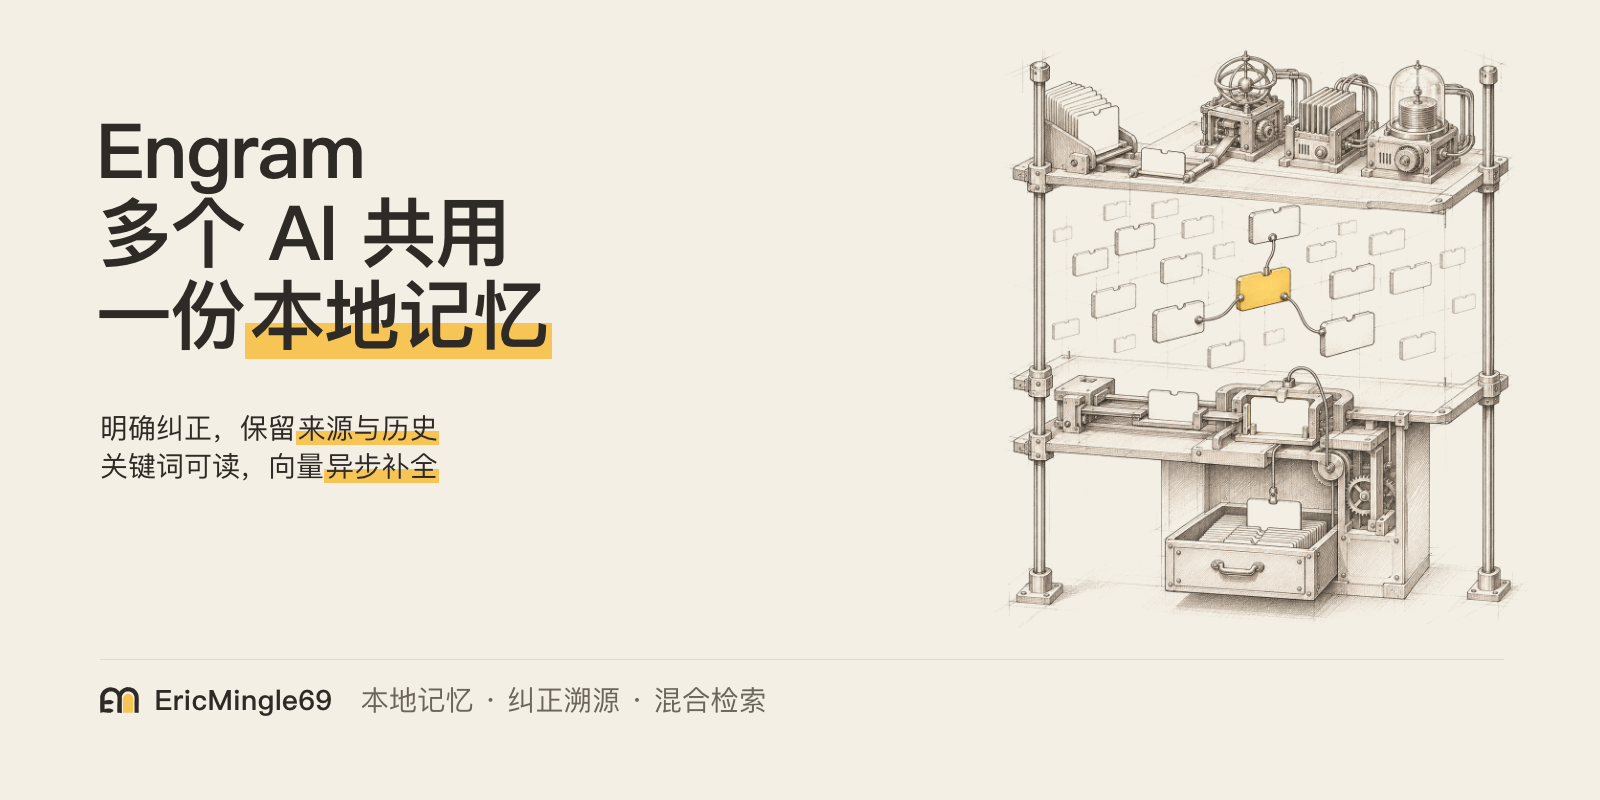
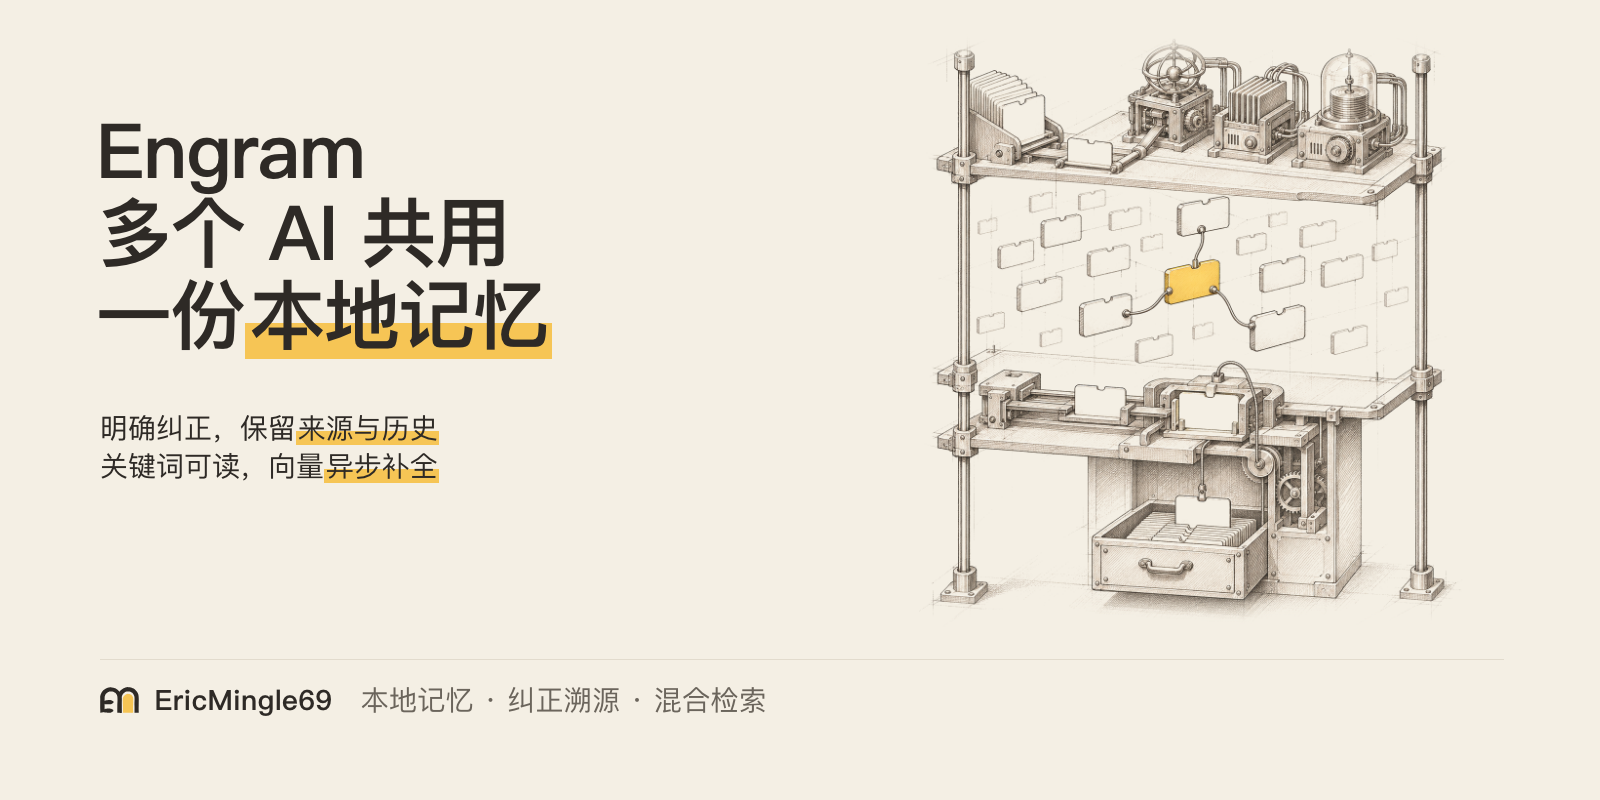
Docs: edge-fitted cover illustration (0.4.5)

Changed region(s): [[0.5625, 0.0625, 0.9688, 0.7812]]

diff --git a/scripts/publication_check.py b/scripts/publication_check.py
@@ -41,7 +41,7 @@ TEXT_SUFFIXES = frozenset({
     ".js", ".mjs", ".cjs", ".ts", ".tsx", ".jsx", ".svg", ".sql",
 })
 # Reviewed generated covers only; any changed image requires visual review.
[2 lines of base64/hex data omitted]
 
 TEXT_NAMES = frozenset({"LICENSE", "NOTICE", "COPYING", "Makefile", ".gitignore", ".gitattributes", ".editorconfig", ".python-version"})
 UUID = re.compile(r"\b[0-9a-f]{8}-[0-9a-f]{4}-[0-9a-f]{4}-[0-9a-f]{4}-[0-9a-f]{12}\b", re.IGNORECASE)

diff --git a/tests/test_mcp_profiles.py b/tests/test_mcp_profiles.py
@@ -171,7 +171,7 @@ def test_official_sdk_stdio_profile(tmp_path):
                     result = await session.initialize()
                     assert result.serverInfo.name == "engram-claude"
                     assert result.serverInfo.title == "Engram Claude"
-                    assert result.serverInfo.version == "0.4.4"
+                    assert result.serverInfo.version == "0.4.5"
                     listed = await session.list_tools()
                     assert {item.name for item in listed.tools} == {
                         item["name"] for item in tool_descriptors()

diff --git a/tests/test_mcp_claude_remote.py b/tests/test_mcp_claude_remote.py
@@ -58,7 +58,7 @@ def test_http_profile_identity_and_shared_data(tmp_path):
             )
             expected_name = "engram-claude" if profile == "claude" else "engram"
             assert initialized["serverInfo"]["name"] == expected_name
-            assert initialized["serverInfo"]["version"] == "0.4.4"
+            assert initialized["serverInfo"]["version"] == "0.4.5"
             if profile == "claude":
                 assert initialized["instructions"] == CLAUDE_PROFILE.instructions
                 saved = call(client, "remember", {"body": "isolated shared profile"})

diff --git a/src/engram/mcp/server.py b/src/engram/mcp/server.py
@@ -22,7 +22,7 @@ from engram.mcp.tools import ToolContext, call_tool, tool_descriptors
 
 PROTOCOL_VERSION = "2025-06-18"
 SERVER_NAME = "engram"
-SERVER_VERSION = "0.4.4"
+SERVER_VERSION = "0.4.5"
 INSTRUCTIONS = DEFAULT_PROFILE.instructions
 
 PARSE_ERROR = -32700

diff --git a/README.en.md b/README.en.md
@@ -6,7 +6,7 @@
 <p align="center"><a href="docs/architecture.md">Architecture</a> · <a href="docs/research-directions.md">Research</a> · <a href="CHANGELOG.md">Changelog</a> · <a href="CONTRIBUTING.md">Contributing</a></p>
 <p align="center">
 <img alt="MIT" src="https://img.shields.io/badge/license-MIT-F6C555?style=flat-square&amp;labelColor=2E2A26">
-<img alt="Version" src="https://img.shields.io/badge/version-0.4.4-6B655C?style=flat-square&amp;labelColor=2E2A26">
+<img alt="Version" src="https://img.shields.io/badge/version-0.4.5-6B655C?style=flat-square&amp;labelColor=2E2A26">
 <img alt="Python" src="https://img.shields.io/badge/Python-3.13%2B-6B655C?style=flat-square&amp;labelColor=2E2A26">
 <img alt="SQLite" src="https://img.shields.io/badge/storage-SQLite-A8A196?style=flat-square&amp;labelColor=2E2A26">
 </p>
@@ -14,7 +14,7 @@
 
 # Engram · Shared local knowledge for agents
 
-Engram 0.4.4 keeps long-term knowledge in a local SQLite database shared by different agents. Writers provide content; classification and vectors are completed later. Explicit corrections preserve provenance while reads distinguish currently applicable information from original history.
+Engram 0.4.5 keeps long-term knowledge in a local SQLite database shared by different agents. Writers provide content; classification and vectors are completed later. Explicit corrections preserve provenance while reads distinguish currently applicable information from original history.
 
 Earlier public code declared 0.1.0 and had no formal release tags. Version 0.4.0 first packaged the current core as public source; 0.4.1 updated CI, documentation, and its publication checks, and 0.4.2 updates the signature and covers. Intermediate development is described as milestones, without inventing 0.2/0.3 releases. See the [changelog](CHANGELOG.md), [architecture](docs/architecture.md), [evolution](docs/evolution.md), and [research directions](docs/research-directions.md).
 

diff --git a/README.md b/README.md
@@ -6,7 +6,7 @@
 <p align="center"><a href="docs/architecture.md">架构</a> · <a href="docs/research-directions.md">研究方向</a> · <a href="CHANGELOG.md">版本记录</a> · <a href="CONTRIBUTING.md">贡献</a></p>
 <p align="center">
 <img alt="MIT" src="https://img.shields.io/badge/license-MIT-F6C555?style=flat-square&amp;labelColor=2E2A26">
-<img alt="Version" src="https://img.shields.io/badge/version-0.4.4-6B655C?style=flat-square&amp;labelColor=2E2A26">
+<img alt="Version" src="https://img.shields.io/badge/version-0.4.5-6B655C?style=flat-square&amp;labelColor=2E2A26">
 <img alt="Python" src="https://img.shields.io/badge/Python-3.13%2B-6B655C?style=flat-square&amp;labelColor=2E2A26">
 <img alt="SQLite" src="https://img.shields.io/badge/storage-SQLite-A8A196?style=flat-square&amp;labelColor=2E2A26">
 </p>
@@ -14,7 +14,7 @@
 
 # Engram · Agent 共用本地知识库
 
-Engram 0.4.4 把长期知识保存在本机 SQLite 中，供不同 Agent 使用同一份事实源。写入方提供内容，分类与向量在后续补全；明确纠正形成可追溯关系，读取时区分当前适用内容与历史原文。
+Engram 0.4.5 把长期知识保存在本机 SQLite 中，供不同 Agent 使用同一份事实源。写入方提供内容，分类与向量在后续补全；明确纠正形成可追溯关系，读取时区分当前适用内容与历史原文。
 
 此前公开代码标为 0.1.0，没有正式版本标签。0.4.0 将当前核心整理为公开源码，0.4.1 更新 CI、文档及其发布检查，0.4.2 更新署名与封面；历史阶段按里程碑描述，不补造 0.2/0.3 发布。见 [版本变化](CHANGELOG.md)、[架构](docs/architecture.md)、[演化历史](docs/evolution.md) 和 [研究方向](docs/research-directions.md)。
 

diff --git a/docs/evolution/0.4.5.md b/docs/evolution/0.4.5.md
@@ -1,0 +1,19 @@
+# Engram 0.4.5
+
+## Problem
+Some cover illustrations showed a visible square boundary where the drawing ran to the image edge, and illustration sizes were tuned per repository.
+
+## Architecture and interface
+Replace the four covers. The illustration is cropped to its content, placed by one fixed rule (hard boundary, fade band, safe area) shared across repositories, and any side whose drawing reaches the image edge fades into the background. Update the pinned cover hashes; runtime interfaces are unchanged.
+
+## Decisions and alternatives
+No outpainting or regeneration; the drawing itself is unchanged apart from the edge fade. Parameters are fixed in one shared file and checked by script.
+
+## Research hypotheses
+None; this is a presentation change.
+
+## Validation and limits
+A scripted check confirms size, exact background, divider, signature, text column, hard boundary, no edge-touching lines and zero paper tint. Run the publication and test suites.
+
+## Next
+None.

diff --git a/CHANGELOG.md b/CHANGELOG.md
@@ -1,5 +1,10 @@
 # Changelog
 
+## [0.4.5] - 2026-11-18
+
+- Replace all four covers: the illustration is cropped to its content and sized by one shared rule; sides where the drawing runs to the image edge fade into the background, so no square boundary shows. Runtime behavior is unchanged.
+- Refresh exact cover hashes and release metadata.
+
 ## [0.4.4] - 2026-11-18
 
 - Replace all four covers: illustration paper tone is now snapped to the exact cover background, removing a faint tint around the artwork.

diff --git a/docs/evolution.md b/docs/evolution.md
@@ -29,3 +29,7 @@ Remove the circular cover mask using approved exports. See [release notes](evolu
 ## 0.4.4 · Exact cover background
 
 Snap the illustration paper tone to the cover background. See [release notes](evolution/0.4.4.md).
+
+## 0.4.5 · Edge-fitted cover illustration
+
+One shared placement rule; edge-touching sides fade. See [release notes](evolution/0.4.5.md).
